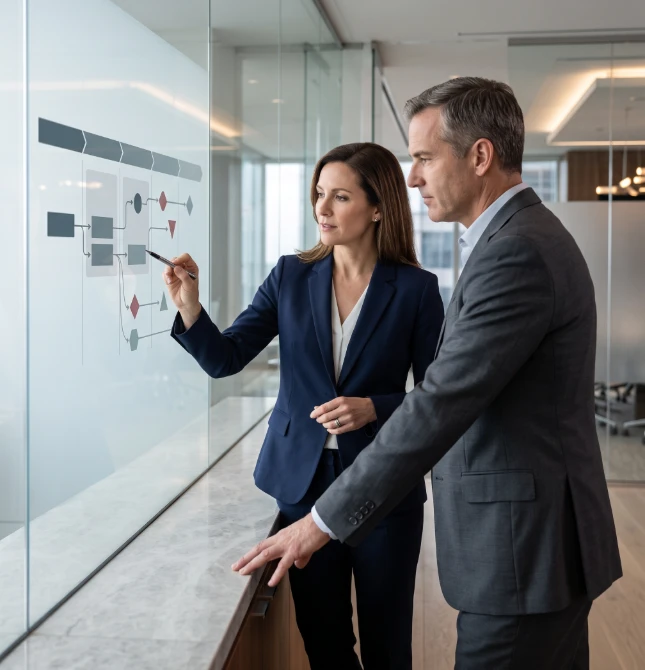
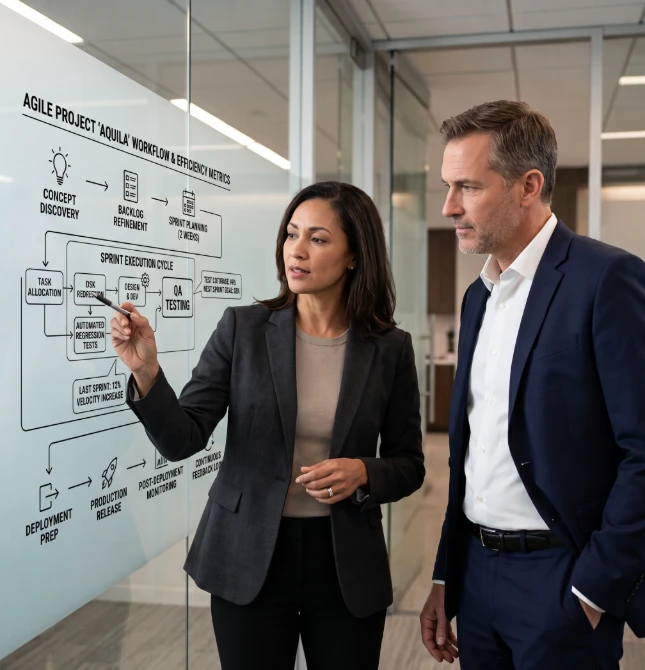
Pick up the replaced Service 02 and 03, and use all three everywhere
Both were re-uploaded to the shared folder under new ids after the last
pass - the replacements carry legible diagrams on the glass, which is the
point of those two frames, so they are worth taking. Same 2016x2112 source
dimensions, so the same pipeline.

The three service photographs now also fill the two places still on template
placeholders: each service detail page's banner, and the services page
card's thumbnail, which the card reveals under a scrim on hover.

The banner is cropped 3:2 rather than the template's 1.75. From a portrait
source 1.75 takes a third of the height, which cut the heads off two of the
three and both diagrams; 3:2 keeps them. That scrim also goes from 0.65 to
0.8 - it was set against a flat grey placeholder, and over a lit office the
white copy on top of it was dropping below 4.5:1.

`img { height: auto }` replaces the hero-specific rule from the last commit.
The template only sets `max-width: 100%`, so every image given width/height
attributes was one CSS rule away from the same 2:1 stretch the hero had.

diff --git a/src/data/serviceDetails.js b/src/data/serviceDetails.js
@@ -11,7 +11,8 @@ export const serviceDetails = {
     title: "Make Your Next ServiceNow Investment Decision With Confidence.",
     desc: "We provide independent guidance to help you understand your ServiceNow licensing, utilization, future needs, and options before you renew, expand, or true-up.",
     cta: { label: "Discuss Your Licensing Challenge", to: "/contact" },
-    image: "/assets/images/service/tj-service-1.webp",
+    image: "/assets/images/bt/photos/service-01-banner.webp",
+    imageSmall: "/assets/images/bt/photos/service-01-banner-831.webp",
 
     intro: {
       title: "Know What You're Paying For—and Why.",
@@ -108,7 +109,8 @@ export const serviceDetails = {
     title: "Solve the Challenge Without Creating More Complexity.",
     desc: "Sometimes you don't need another implementation partner. You need experienced perspective to evaluate the problem, challenge assumptions, and determine what makes sense.",
     cta: { label: "Discuss Your ServiceNow Challenge", to: "/contact" },
-    image: "/assets/images/service/tj-service-2.webp",
+    image: "/assets/images/bt/photos/service-02-banner.webp",
+    imageSmall: "/assets/images/bt/photos/service-02-banner-831.webp",
     engagementFirst: true,
 
     intro: {
@@ -216,7 +218,8 @@ export const serviceDetails = {
     title: "Senior ServiceNow Leadership Without Another Full-Time Hire.",
     desc: "We provide experienced platform leadership through a flexible engagement—helping protect your investment, guide priorities, manage partners, and keep ServiceNow aligned with business value.",
     cta: { label: "Discuss Fractional Leadership", to: "/contact" },
-    image: "/assets/images/service/tj-service-3.webp",
+    image: "/assets/images/bt/photos/service-03-banner.webp",
+    imageSmall: "/assets/images/bt/photos/service-03-banner-831.webp",
 
     intro: {
       title: "Your Platform Still Needs an Owner.",

diff --git a/src/styles/theme.css b/src/styles/theme.css
@@ -349,8 +349,12 @@ html {
     linear-gradient(168deg, rgba(18, 60, 105, 0.5) 0%, rgba(6, 27, 50, 0.4) 100%);
 }
 
+/* The card inverts to this scrim over its photograph on hover. The
+   template's 0.65 was set against a flat placeholder; over a real
+   photograph - a lit office, a whiteboard full of diagram - the white copy
+   on top of it drops below 4.5:1 in patches. 0.8 holds it. */
 .service-style-2 .thumb::before {
-  background: rgba(10, 42, 75, 0.65);
+  background: rgba(10, 42, 75, 0.8);
 }
 
 /* ---------------------------------------------------------------------------
@@ -579,12 +583,17 @@ html {
 
 /* ---- Section photography ----
  *
- * The hero photograph carries `width`/`height` so the layout is reserved
- * before it loads. The template only sets `width: 100%` on it, which leaves
- * the height attribute as the used height and squashes the photo to the
- * box's width at its full pixel height - a 2:1 vertical stretch. `height:
- * auto` is the other half of that pattern and has to come with it. */
-.hero-images-box img {
+ * Photographs carry `width`/`height` so their layout is reserved before they
+ * load. The template's only global rule for images is `max-width: 100%`,
+ * which leaves the height *attribute* as the used height - so an image
+ * scaled down by its container gets squashed to that container's width at
+ * its full pixel height. The hero was rendering 610x1514 against a 610x757
+ * photograph before this. `height: auto` is the other half of the pattern
+ * and belongs everywhere the attributes do.
+ *
+ * A bare `img` selector is deliberate: any component that means to control
+ * an image's height does it from a class, which outranks this. */
+img {
   height: auto;
 }
 

diff --git a/src/components/service-detail/ServiceBody.jsx b/src/components/service-detail/ServiceBody.jsx
@@ -39,8 +39,17 @@ export default function ServiceBody({ slug, service }) {
   return (
     <div className="tj-post-wrapper">
       <div className="tj-post-single-post mb-0">
+        {/* The banner is 831px wide in the reading column, so it ships at
+            1x and 2x like the home page's cards. */}
         <div className="tj-post-thumb hover:shine wow fadeInUp" data-wow-delay="0.1s">
-          <img src={service.image} alt={service.eyebrow} />
+          <img
+            src={service.image}
+            srcSet={service.imageSmall ? `${service.imageSmall} 831w, ${service.image} 1662w` : undefined}
+            sizes={service.imageSmall ? "(max-width: 991px) 100vw, 831px" : undefined}
+            alt={service.eyebrow}
+            width="1662"
+            height="1108"
+          />
         </div>
 
         <span className="sub-title wow fadeInUp" data-wow-delay="0.1s">

diff --git a/src/data/servicesPage.js b/src/data/servicesPage.js
@@ -26,7 +26,10 @@ export const cards = serviceRoutes.map((route, i) => ({
   icon: route.icon,
   number: String(i + 1).padStart(2, "0"),
   to: `/services/${route.slug}`,
-  image: `/assets/images/service/h1-service-${i + 1}.webp`,
+  // The same photograph the home page's card uses, at its 1x width - here
+  // it sits behind a navy scrim and only appears on hover, so it does not
+  // need the 2x file.
+  image: `/assets/images/bt/photos/service-0${i + 1}-645.webp`,
 }));
 
 export const cardCopy = {
